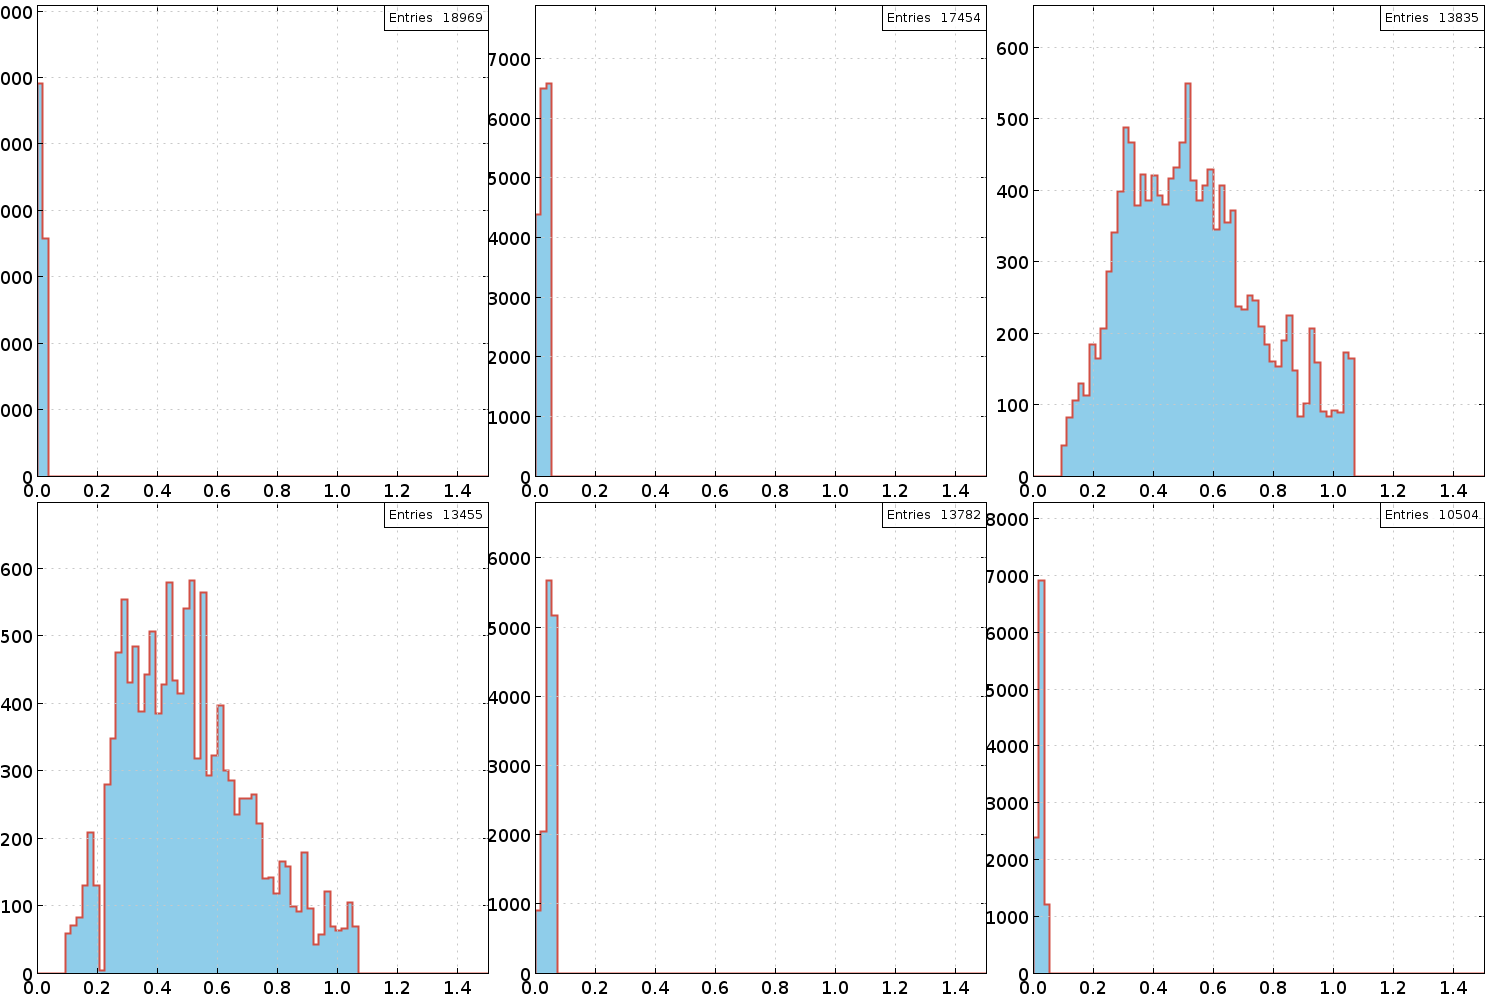
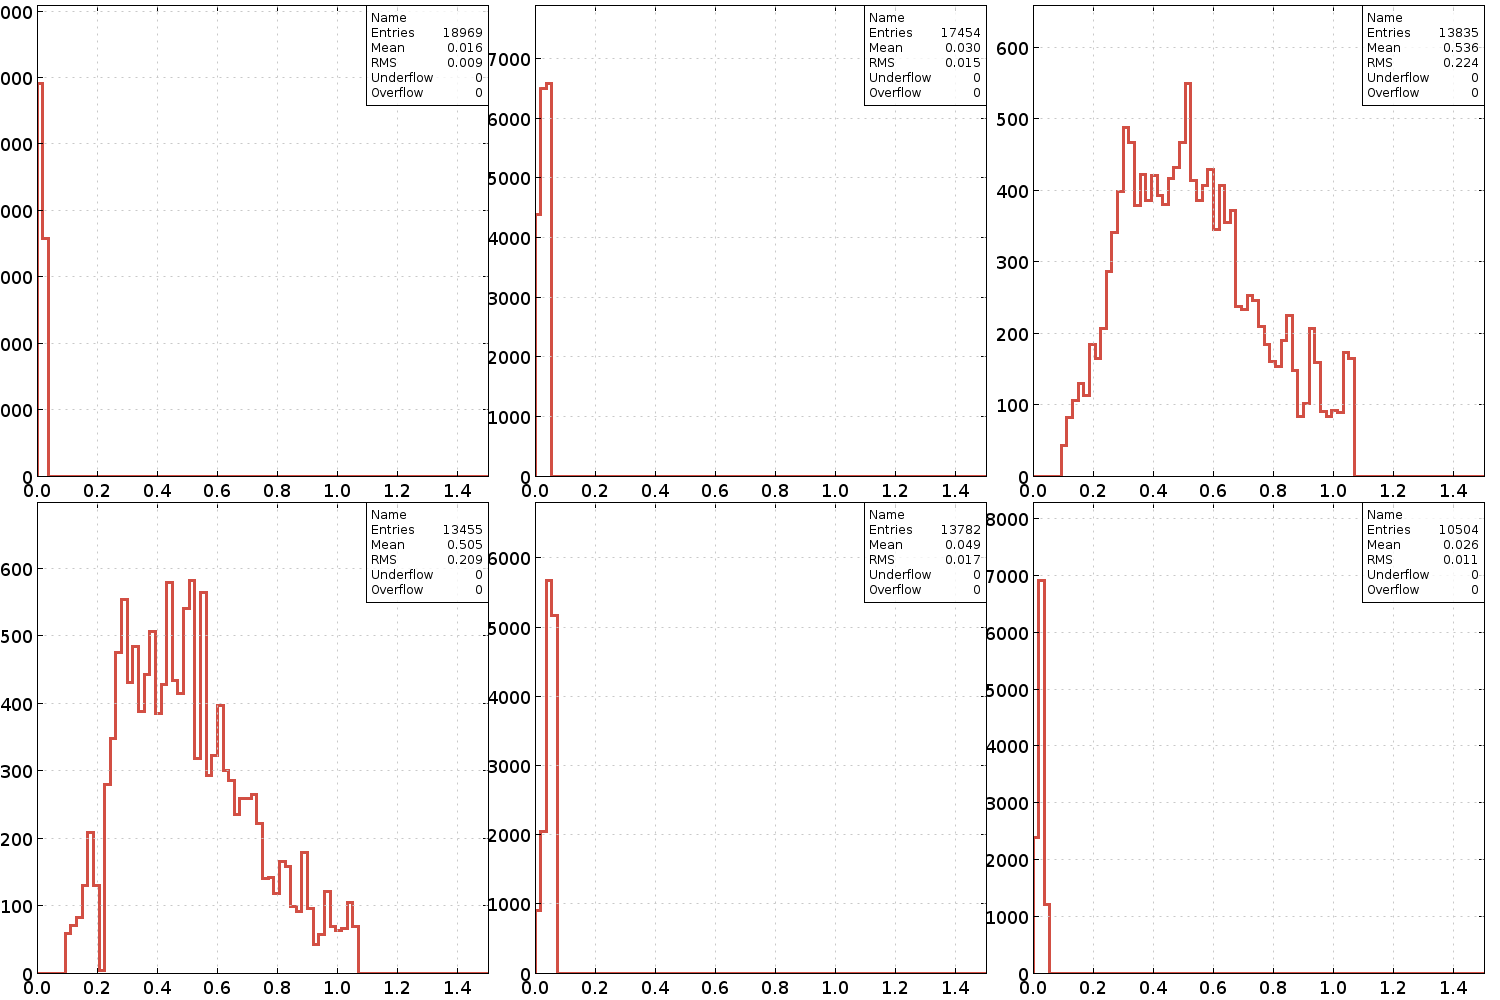
Added Classes to plot calibration and reconstruction time to distance functional form

diff --git a/DC_Calibration/src/org/jlab/dc_calibration/test/CalibTimeFunction.java b/DC_Calibration/src/org/jlab/dc_calibration/test/CalibTimeFunction.java
@@ -1,0 +1,89 @@
+// Filename: CalibTimeFunction.java
+// Description: Plot DC time function from calibration suite
+// Author: Latif Kabir < latif@jlab.org >
+// Created: Sat Aug 19 23:32:29 2017 (-0400)
+// URL: latifkabir.github.io
+
+package org.jlab.dc_calibration.test;
+
+import org.jlab.groot.math.Func1D;
+import org.jlab.groot.ui.TCanvas;
+import static org.jlab.dc_calibration.constants.Constants.wpdist;
+
+import org.jlab.dc_calibration.fit.DCTimeFunction;
+import org.jlab.dc_calibration.io.ReadT2DparsFromCCDB;
+import org.jlab.dc_calibration.ui.CalibStyle;
+import org.jlab.groot.base.GStyle;
+
+public class CalibTimeFunction extends Func1D
+{
+	int		secIndex	= 0;
+	int		slIndex		= 0;
+	double	angDeg		= 0;
+	double	bField		= 0;
+
+	int		nParam		= 10;					// Number of parameters
+	double	params[]	= new double[nParam];
+
+	public CalibTimeFunction(String name, double min, double max)
+	{
+		super(name, min, max);
+	}
+
+	public void setValues(int sec_index, int sl_index, double b_field, double ang)
+	{
+		secIndex = sec_index;
+		slIndex = sl_index;
+		bField = b_field;
+		angDeg = ang;
+	}
+
+	@Override
+	public void setParameters(double[] values)
+	{
+		for (int i = 0; i < (nParam - 1); i++)
+			params[i] = values[i];
+
+		params[nParam - 1] = 0.0; // Delta_T_0 constant not in CCDB
+	}
+
+	@Override
+	public double evaluate(double x)
+	{
+		DCTimeFunction dcTimeFnc = new DCTimeFunction(slIndex, angDeg, x / (2.0 * wpdist[slIndex]), bField, params);
+		return dcTimeFnc.nonLinearFit();
+	}
+
+	public static void main(String[] args)
+	{
+		CalibStyle.setStyle();
+		GStyle.getFunctionAttributes().setTitleX("Distance [cm]");
+		GStyle.getFunctionAttributes().setTitleY("Time [ns]");
+
+		TCanvas c1 = new TCanvas("c1", 800, 600);
+		c1.setTitle("Distance (cm) vs Time (ns)");
+
+		int secIndex = 0;
+		int slIndex = 0;
+		double bField = 0.0;
+		double angDegree = 30.0;
+		double maxRange = 0.8;
+		double minRange = 0.0;
+
+		GStyle.getFunctionAttributes()
+				.setTitle("Time vs Distance for S = " + (secIndex + 1) + " SL = " + (slIndex + 1));
+
+		ReadT2DparsFromCCDB defPars = new ReadT2DparsFromCCDB("default");
+		// double myParams[] = { 47.e-04, 1.5, 300, 0.050, 0.16, 0.4, -2.0, 10.0, -6.5, 0.0 }; //
+		// For region 2
+
+		for (angDegree = 0.0; angDegree <= 30.0; angDegree += 5)
+		{
+			CalibTimeFunction myFnc = new CalibTimeFunction("myFnc", minRange, maxRange * Math.cos(Math.toRadians(30 - angDegree)));
+			myFnc.setParameters(defPars.parsFromCCDB[secIndex][slIndex]);
+			myFnc.setValues(secIndex, slIndex, bField, angDegree);
+			myFnc.setLineColor((int) (angDegree / 5) + 1);
+			c1.draw(myFnc, "same");
+		}
+	}
+}

diff --git a/DC_Calibration/src/org/jlab/dc_calibration/test/ReconTimeFunction.java b/DC_Calibration/src/org/jlab/dc_calibration/test/ReconTimeFunction.java
@@ -1,0 +1,74 @@
+// Filename: ReconTimeFunction.java
+// Description: Plot the DC time function used in the reconstruction
+// Author: Latif Kabir < latif@jlab.org >
+// Created: Sat Aug 26 10:24:56 2017 (-0400)
+// URL: latifkabir.github.io
+
+package org.jlab.dc_calibration.test;
+
+import org.jlab.groot.ui.TCanvas;
+import org.jlab.rec.dc.timetodistance.TableLoader;
+import org.jlab.rec.dc.timetodistance.TimeToDistanceEstimator;
+import org.jlab.rec.dc.CalibrationConstantsLoader;
+import org.jlab.dc_calibration.ui.CalibStyle;
+import org.jlab.groot.base.GStyle;
+import org.jlab.groot.data.GraphErrors;
+
+class ReconTimeFunction
+{
+	int SL_index;
+	int sec_index;
+	double distance;
+	
+	TimeToDistanceEstimator recFnc = new TimeToDistanceEstimator();
+	
+    public ReconTimeFunction(int SecIndex,int SLindex)
+    {
+    	sec_index = SecIndex;
+    	SL_index = SLindex;
+    	
+		CalibrationConstantsLoader.Load(10, "default");
+		TableLoader.Fill();
+	 }
+
+    public GraphErrors getGraph(double bField, double angDegree, double minTime, double maxTime)
+	{
+    	GraphErrors gr = new GraphErrors();
+
+    	for (double i = minTime; i< maxTime; i = i + 1.0)
+		{			
+    		distance = recFnc.interpolateOnGrid(bField, angDegree, i, sec_index, SL_index);
+    		gr.addPoint(distance, i, 0, 0);
+		}
+    	
+    	return gr;
+	}
+    
+     // --------------------> Run this call to main() from Emacs. Eclipse throws an exception for the loop used <-------------- 
+    public static void main(String[] args)
+    {
+    	CalibStyle.setStyle();
+    	GStyle.getGraphErrorsAttributes().setMarkerSize(2);
+		GStyle.getGraphErrorsAttributes().setTitleX("Distance [cm]");;
+		GStyle.getGraphErrorsAttributes().setTitleY("Time [ns]");;
+		
+		TCanvas c1 = new TCanvas("c1", 800, 600);
+		c1.setTitle("Distance (cm) vs Time (ns)");
+		
+		double maxTime = 200;
+		double minTime = 0;
+		
+		int slIndex = 0;
+		int secIndex = 0;
+		double bField = 0.0;
+
+		ReconTimeFunction recon = new ReconTimeFunction(secIndex, slIndex);
+
+		// c1.draw(recon.getGraph(bField, 30, minTime, maxTime));		
+		for(double angDegree = 0; angDegree <= 30; angDegree += 5)
+		{
+		    GStyle.getGraphErrorsAttributes().setMarkerColor((int)(angDegree/5) + 1);
+			c1.draw(recon.getGraph(bField, angDegree, minTime, maxTime),"same");
+		}		
+    }    
+}

diff --git a/DC_Calibration/src/org/jlab/dc_calibration/test/TestCalcTime.java b/DC_Calibration/src/org/jlab/dc_calibration/test/TestCalcTime.java
@@ -1,0 +1,76 @@
+/**
+ * @author Latif Kabir < jlab.org/~latif >
+ *
+ */
+package org.jlab.dc_calibration.test;
+
+import org.jlab.groot.base.GStyle;
+import org.jlab.groot.data.GraphErrors;
+import org.jlab.groot.ui.TCanvas;
+import org.jlab.rec.dc.CalibrationConstantsLoader;
+import org.jlab.rec.dc.timetodistance.TableLoader;
+import org.jlab.rec.dc.timetodistance.TimeToDistanceEstimator;
+
+public class TestCalcTime
+{
+
+	public static void main(String[] args)
+	{
+		GStyle.getGraphErrorsAttributes().setMarkerSize(1);
+				
+		TCanvas c1 = new TCanvas("c1", 800, 600);
+		c1.setTitle("Distance (cm) vs Time (ns)");
+		int superLaterIndex = 2;
+
+		CalibrationConstantsLoader.Load(10, "default");
+		TableLoader.Fill();
+		
+		TimeToDistanceEstimator recFnc = new TimeToDistanceEstimator();
+
+		GraphErrors gr1 = new GraphErrors();
+		GraphErrors gr2 = new GraphErrors();
+		GraphErrors gr3 = new GraphErrors();
+		GraphErrors gr4 = new GraphErrors();
+		GraphErrors gr5 = new GraphErrors();
+		GraphErrors gr6 = new GraphErrors();
+		GraphErrors gr7 = new GraphErrors();
+
+	
+		for (double i=0; i< 200; i=i+1.0)
+		{			
+			double dist = recFnc.interpolateOnGrid(0, 0.0, i, 0, superLaterIndex);
+			//System.out.println("Time "+ i + " dist " + dist);
+			gr1.addPoint(dist, i, 0, 0);
+			
+			dist = recFnc.interpolateOnGrid(0, 5.0, i, 0, superLaterIndex);
+			gr2.addPoint(dist, i, 0, 0);
+
+			dist = recFnc.interpolateOnGrid(0, 10.0, i, 0, superLaterIndex);
+			gr3.addPoint(dist, i, 0, 0);
+
+			dist = recFnc.interpolateOnGrid(0, 15.0, i, 0, superLaterIndex);
+			gr4.addPoint(dist, i, 0, 0);
+
+			dist = recFnc.interpolateOnGrid(0, 20.0, i, 0, superLaterIndex);
+			gr5.addPoint(dist, i, 0, 0);
+
+			dist = recFnc.interpolateOnGrid(0, 25.0, i, 0, superLaterIndex);
+			gr6.addPoint(dist, i, 0, 0);
+						
+			dist = recFnc.interpolateOnGrid(0, 30.0, i, 0, superLaterIndex);
+			//System.out.println("Time "+ i + " dist " + dist);
+			gr7.addPoint(dist, i, 0, 0);
+
+		}						
+		gr1.setTitleX("Distance [cm]");
+		gr1.setTitleY("Time [ns]");
+		c1.draw(gr1);
+		c1.draw(gr2,"same");
+		c1.draw(gr3,"same");
+		c1.draw(gr4,"same");
+		c1.draw(gr5,"same");
+		c1.draw(gr6,"same");
+		c1.draw(gr7,"same");
+
+	}
+}

diff --git a/DC_Calibration/src/org/jlab/dc_calibration/ui/CalibStyle.java b/DC_Calibration/src/org/jlab/dc_calibration/ui/CalibStyle.java
@@ -1,0 +1,44 @@
+/*
+  @author Latif Kabir < jlab.org/~latif >
+*/
+package org.jlab.dc_calibration.ui;
+
+import org.jlab.groot.base.GStyle;
+
+public class CalibStyle
+{
+    /**
+     * Empty Constructor
+     */
+    public CalibStyle()
+    {
+	
+    }
+    
+    /**
+     * Set custom style for plotting
+     */
+    public static void setStyle()
+    {
+	GStyle.getGraphErrorsAttributes().setMarkerStyle(0);
+	GStyle.getGraphErrorsAttributes().setMarkerColor(3);
+	GStyle.getGraphErrorsAttributes().setMarkerSize(7);
+	GStyle.getGraphErrorsAttributes().setLineColor(3);
+	GStyle.getGraphErrorsAttributes().setLineWidth(3);
+		
+	GStyle.getAxisAttributesX().setTitleFontSize(24);
+	GStyle.getAxisAttributesX().setLabelFontSize(18);
+	GStyle.getAxisAttributesY().setTitleFontSize(24);
+	GStyle.getAxisAttributesY().setLabelFontSize(18);
+
+	GStyle.getH1FAttributes().setLineWidth(3);
+	GStyle.getH1FAttributes().setLineColor(21);
+	//GStyle.getH1FAttributes().setFillColor(34);
+	//GStyle.getH1FAttributes().setOptStat("10");
+	GStyle.getH1FAttributes().setOptStat("111111");		
+				
+	GStyle.getFunctionAttributes().setLineWidth(2);
+	GStyle.getFunctionAttributes().setLineColor(32);
+	GStyle.getAxisAttributesZ().setLog(true);
+    }
+}

diff --git a/DC_Calibration/src/org/jlab/dc_calibration/ui/Application.java b/DC_Calibration/src/org/jlab/dc_calibration/ui/Application.java
@@ -12,29 +12,11 @@
  */
 package org.jlab.dc_calibration.ui;
 
-import org.jlab.groot.base.GStyle;
-
 public class Application
 {
 	public static void main(String[] args)
 	{
-		GStyle.getGraphErrorsAttributes().setMarkerStyle(0);
-		GStyle.getGraphErrorsAttributes().setMarkerColor(3);
-		GStyle.getGraphErrorsAttributes().setMarkerSize(7);
-		GStyle.getGraphErrorsAttributes().setLineColor(3);
-		GStyle.getGraphErrorsAttributes().setLineWidth(3);
-		GStyle.getAxisAttributesX().setTitleFontSize(24);
-		GStyle.getAxisAttributesX().setLabelFontSize(18);
-		GStyle.getAxisAttributesY().setTitleFontSize(24);
-		GStyle.getAxisAttributesY().setLabelFontSize(18);
-		GStyle.getH1FAttributes().setLineWidth(2);
-		GStyle.getH1FAttributes().setLineColor(21);
-		GStyle.getH1FAttributes().setFillColor(34);
-		GStyle.getH1FAttributes().setOptStat("10");
-		GStyle.getFunctionAttributes().setLineWidth(2);
-		GStyle.getFunctionAttributes().setLineColor(32);
-		GStyle.getAxisAttributesZ().setLog(true);
-
+		CalibStyle.setStyle();
 		DC_Calibration DcCalib = new DC_Calibration();
 	}
 }

diff --git a/DC_Calibration/src/org/jlab/dc_calibration/fit/TimeToDistanceFitter.java b/DC_Calibration/src/org/jlab/dc_calibration/fit/TimeToDistanceFitter.java
@@ -1068,14 +1068,9 @@ public class TimeToDistanceFitter implements ActionListener, Runnable
 			Logger.getLogger(TimeToDistanceFitter.class.getName()).log(Level.SEVERE, null, ex);
 		}
 
-		int nFreePars = nFitPars; // 9;//4;
-		// if (histTypeToUseInFitting == 3) {
-		// nFreePars = 9;
-		// }
+		int nFreePars = nFitPars; 
 
 		double[][][] pars2write = new double[nSectors][nSL][nFitPars];// nFitPars = 9
-		// double parSteps[] = {0.00001, 0.001, 0.01, 0.0001, 0.001, 0.001, 0.001, 0.001, 0.001,
-		// 0.001};
 
 		Map<Coordinate, MnUserParameters> mapTmpUserFitParameters = new HashMap<Coordinate, MnUserParameters>();
 
